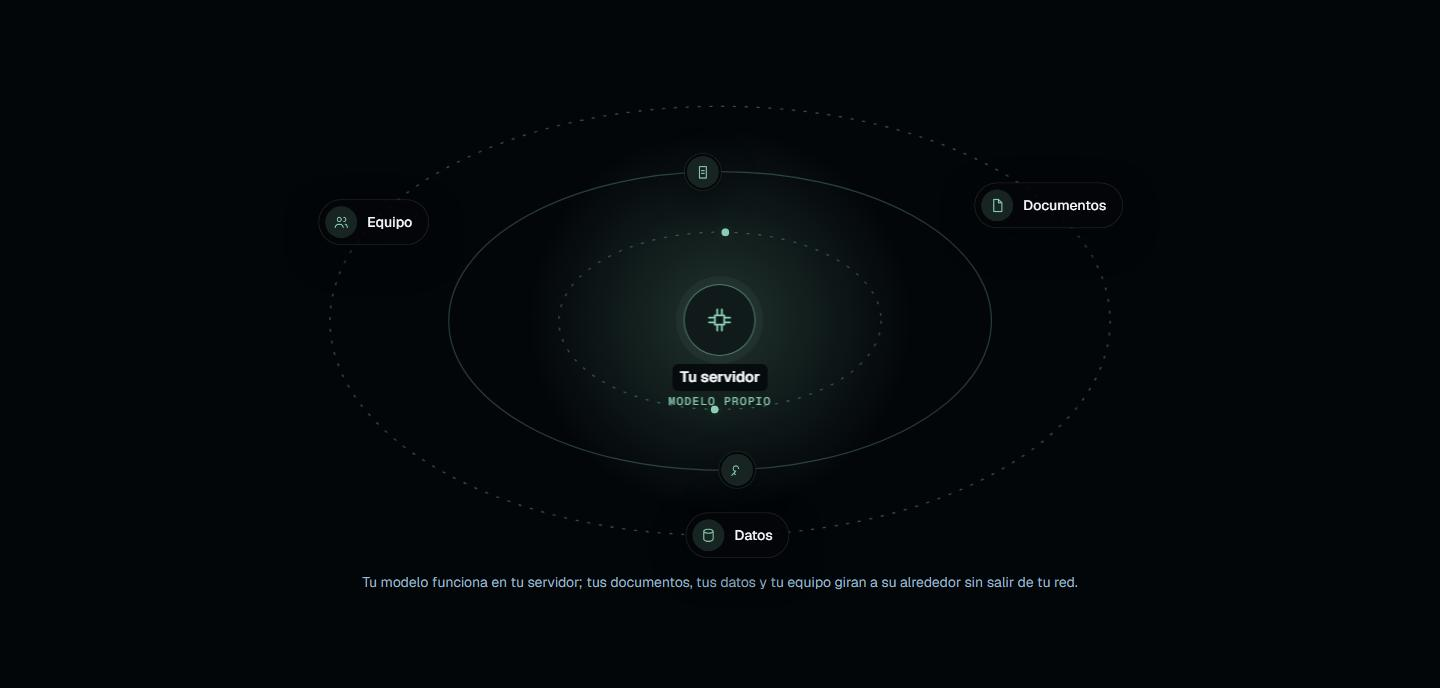
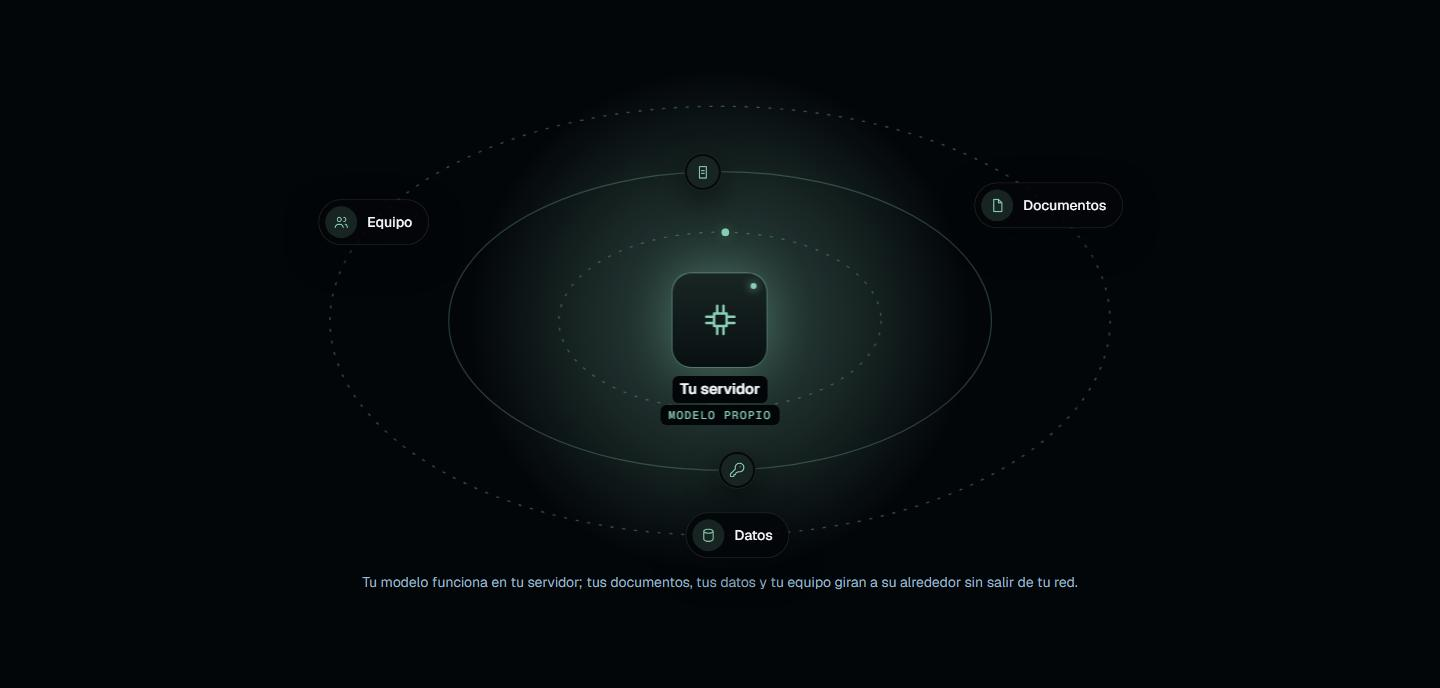
fix(sau/motion): órbita con núcleo de Galileo, etiquetas sobre el anillo y leyenda completa (revisión estética v1: F-9, F-12, MJ-1, MJ-3)
- Núcleo como tile de la casa (degradado, brillo interior, punto menta), 6rem con escenario >= 50rem
  (consulta de contenedor; 4,75rem por debajo, 3,5rem en móvil); halo al 35 % y del 60 % del ancho.
- Etiqueta y sublabel del núcleo encima de los anillos y con fondo opaco: el anillo interior pasa por detrás.
- Chips enteros al terminar de entrar el escenario (entry 30-90 %).
- Leyenda móvil con los nodos del anillo medio en estilo secundario; icono de llave corregido en el banco.
- N3: núcleo >= 90 px, etiquetas encima y opacas, chips enteros al entrar, leyenda completa a 390 px.

Changed region(s): [[0.4375, 0.3358, 0.5625, 0.6105], [0.5, 0.6715, 0.5312, 0.702]]

diff --git a/plugins/sau/skills/motion-director/kit/styles/motion.css b/plugins/sau/skills/motion-director/kit/styles/motion.css
@@ -28,7 +28,7 @@
   --motion-cut: var(--motion-muted);
   --motion-muted: var(--muted-foreground, color-mix(in srgb, var(--foreground) 65%, transparent));
   --motion-orbit-stroke: var(--primary);
-  --motion-orbit-glow: color-mix(in srgb, var(--primary) 22%, transparent);
+  --motion-orbit-glow: color-mix(in srgb, var(--primary) 35%, transparent);
   --motion-orbit-squash: 0.85; /* móvil: casi círculos */
   --motion-orbit-sweep-outer: 24deg;
   --motion-orbit-sweep-middle: 36deg;
@@ -896,17 +896,17 @@
 
   .motion-orbit-halo {
     position: absolute;
-    left: 27%;
+    left: 20%;
     top: 50%;
-    width: 46%;
+    width: 60%;
     aspect-ratio: 1 / 1;
-    margin-top: -23%;
+    margin-top: -30%;
     border-radius: 9999px;
     background: radial-gradient(closest-side, var(--motion-orbit-glow), transparent);
   }
 
   .motion-orbit-core-pos {
-    --motion-orbit-core-icon: 4.5rem;
+    --motion-orbit-core-icon: 4.75rem;
     position: absolute;
     left: 50%;
     top: 50%;
@@ -922,28 +922,53 @@
     white-space: nowrap;
   }
 
+  /* Núcleo: el «sol» (tile con degradado, brillo interior y punto menta, como el perímetro de la casa). */
   .motion-orbit-core-icon {
+    position: relative;
     display: flex;
     align-items: center;
     justify-content: center;
     width: var(--motion-orbit-core-icon);
     height: var(--motion-orbit-core-icon);
-    border: 1px solid color-mix(in srgb, var(--motion-accent) 55%, transparent);
-    border-radius: 9999px;
-    background: color-mix(in srgb, var(--motion-accent) 10%, var(--motion-surface));
+    border: 1px solid color-mix(in srgb, var(--motion-accent) 50%, transparent);
+    border-radius: 1.25rem;
+    background: linear-gradient(
+      to bottom,
+      color-mix(in srgb, var(--motion-accent) 16%, var(--motion-surface)),
+      color-mix(in srgb, var(--motion-accent) 5%, var(--motion-surface))
+    );
     color: var(--motion-accent);
-    box-shadow: 0 0 0 8px color-mix(in srgb, var(--motion-accent) 6%, transparent);
+    box-shadow: 0 0 48px color-mix(in srgb, var(--motion-accent) 28%, transparent),
+      inset 0 1px 0 color-mix(in srgb, var(--foreground) 12%, transparent);
+  }
+
+  .motion-orbit-core-icon::after {
+    content: "";
+    position: absolute;
+    top: 0.625rem;
+    right: 0.625rem;
+    width: 0.375rem;
+    height: 0.375rem;
+    border-radius: 9999px;
+    background: var(--motion-accent);
+    box-shadow: 0 0 8px var(--motion-accent);
   }
 
   .motion-orbit-core-icon > svg {
-    width: 1.75rem;
-    height: 1.75rem;
+    width: 40%;
+    height: 40%;
+  }
+
+  /* Etiquetas del núcleo con fondo opaco: el anillo interior y su punto pasan por detrás, no por encima. */
+  .motion-orbit-core-label,
+  .motion-orbit-core-sublabel {
+    position: relative;
+    padding: 0.125rem 0.5rem;
+    border-radius: 0.375rem;
+    background: var(--motion-surface);
   }
 
   .motion-orbit-core-label {
-    padding: 0.125rem 0.5rem;
-    border-radius: 0.375rem;
-    background: color-mix(in srgb, var(--motion-surface) 80%, transparent);
     font-size: 0.9375rem;
     font-weight: 600;
     color: var(--foreground);
@@ -1069,6 +1094,21 @@
     font-size: 0.875rem;
     font-weight: 500;
     color: var(--foreground);
+  }
+
+  /* Nodos del anillo medio (solo icono en la figura): en la leyenda, en estilo secundario. */
+  .motion-orbit-legend > li[data-ring="middle"] {
+    border-style: dashed;
+    font-weight: 400;
+    color: var(--motion-muted);
+  }
+
+  /* Escenario ancho (unos 860 px): núcleo grande, el «sol» del sistema. Por debajo de 50rem de escenario,
+     el núcleo de 6rem chocaría con el anillo medio al cruzar por abajo. */
+  @container (min-width: 50rem) {
+    .motion-orbit-core-pos {
+      --motion-orbit-core-icon: 6rem;
+    }
   }
 
   /* Móvil: núcleo más pequeño y nodos de 32 px sin borde, para que el cruce de anillos no se pise. */
@@ -1414,7 +1454,7 @@
       animation: motion-fade linear both;
       animation-timing-function: var(--motion-ease-brand);
       animation-timeline: --motion-orbit;
-      animation-range: entry 50% cover 50%;
+      animation-range: entry 30% entry 90%;
     }
 
     /* ---- filas: cada fila sube con su propia view() (mide más de 40 px); el separador

diff --git a/plugins/sau/skills/motion-director/kit/components/orbit.tsx b/plugins/sau/skills/motion-director/kit/components/orbit.tsx
@@ -153,10 +153,16 @@ export function Orbit({
           </div>
         </div>
       </div>
-      {/* Móvil: las etiquetas de los nodos exteriores, en estático, bajo la figura. */}
+      {/* Móvil: las etiquetas de los nodos (exteriores y, en estilo secundario, medios), en estático. */}
       <ul className="motion-orbit-legend" aria-hidden="true">
         {outer.map((n) => (
-          <li key={n.label}>
+          <li key={`o-${n.label}`} data-ring="outer">
+            <span className="motion-orbit-chip-icon">{n.icon}</span>
+            {n.label}
+          </li>
+        ))}
+        {middle.map((n) => (
+          <li key={`m-${n.label}`} data-ring="middle">
             <span className="motion-orbit-chip-icon">{n.icon}</span>
             {n.label}
           </li>

diff --git a/evals/sau/motion/banco-web/src/app/page.tsx b/evals/sau/motion/banco-web/src/app/page.tsx
@@ -225,7 +225,7 @@ export default function Muestrario() {
             { label: "Equipo", icon: <Icono d="M9 11a3 3 0 100-6 3 3 0 000 6zM3 20c0-3 3-5 6-5s6 2 6 5M16 5a3 3 0 010 6M18 15c2 .5 3 2.5 3 5" /> },
           ]}
           middle={[
-            { label: "Accesos", icon: <Icono d="M14 10a4 4 0 10-4 4l-6 6M7 17l2 2" /> },
+            { label: "Accesos", icon: <Icono d="M2.6 17.4A2 2 0 002 18.8V21a1 1 0 001 1h3a1 1 0 001-1v-1a1 1 0 011-1h1a1 1 0 001-1v-1a1 1 0 011-1h.2a2 2 0 001.4-.6l.8-.8a6.5 6.5 0 10-4-4zM16.5 7.5h.01" /> },
             { label: "Auditoría", icon: <Icono d="M9 4h6M7 4h10v17H7zM10 10h4M10 14h4" /> },
           ]}
           inner={2}
